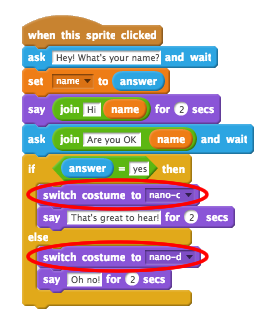
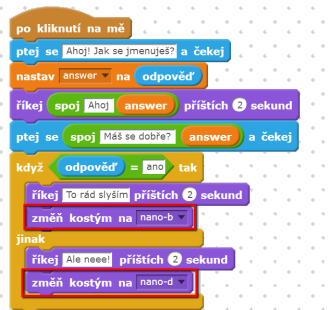
chatbot

diff --git a/cs-CZ/Term 1/ChatBot/ChatBot.md b/cs-CZ/Term 1/ChatBot/ChatBot.md
@@ -115,7 +115,7 @@ Robota můžeš naprogramovat tak, aby se rozhodoval co dále bude dělat na zá
 		ptej se [Ahoj! Jak se jmenuješ?] a čekej
 		nastav [name v] na (answer)
 		říkej <spoj [Ahoj ] (name)> příštích (2) sekund
-		ptej se <join [Máš se dobře? ] (name)> and wait
+		ptej se <join [Máš se dobře? ] (name)> a čekej
 		když ((answer)=[ano]) tak
 			říkej [To rád slyším!] příštích (2) sekund
 		end
@@ -132,7 +132,7 @@ Robota můžeš naprogramovat tak, aby se rozhodoval co dále bude dělat na zá
 		ptej se [Ahoj! Jak se jmenuješ?] a čekej
 		nastav [name v] na (answer)
 		říkej <spoj [Ahoj ] (name)> příštích (2) sekund
-		ask <join [Máš se dobře ] (name)> and wait
+		ptej se <join [Máš se dobře? ] (name)> a čekej
 		když ((answer)=[ano]) tak
 			říkej [To rád slyším!] příštích (2) sekund
 		jinak
@@ -142,7 +142,7 @@ Robota můžeš naprogramovat tak, aby se rozhodoval co dále bude dělat na zá
 
 + Když vyzkoušíš svůj kód, zjistíš, že robot odpovídá jak na `ano` tak na `ne`. Robot odpoví `To rád slyším!` na tvoji odpověd `ano`, ale odpověď `Ale neee!` když zadáš cokoliv jiného než `ano` (blok `jinak` {.blockcontrol} znamená 'jinak').
 
-	![screenshot](chatbot-jinak.png)
+	![screenshot](chatbot-else.png)
 
 + Do bloku `if` {.blockcontrol} nebo `jinak` {.blockcontrol} můžeš vložit cokoliv, nejen mluvení robota. Například můžeš změnit vzhled robota (kostým) aby odpovídal odpovědi.
 
@@ -181,9 +181,9 @@ Robota můžeš naprogramovat tak, aby měnil místo, kde se nachází.
 + Naprogramuj robota pomocí následujícího kódu:
 
 	```blocks
-		ask [Letím na měsíc, chceš jít se mnou?] and wait
-		if ((answer) = [ano]) then
-			switch backdrop to [moon v]
+		ptej se [Letím na měsíc, chceš jít se mnou?] a čekej
+		když ((answer) = [ano]) pak
+			změň pozadí na [moon v]
 		end
 	```
 
@@ -200,15 +200,27 @@ Robota můžeš naprogramovat tak, aby měnil místo, kde se nachází.
 + Pokud chceš, aby robot poskočil 4x, když odpovíš `ano`, přidej tento kód do bloku `if` {.blockcontrol}:
 
 	```scratch
-	repeat (4)
-		change y by (10)
-		wait (0.1) secs
-		change y by (-10)
-		wait (0.1) secs
+	opakuj (4)
+		změň y o (10)
+		čekej (0.1) sekund
+		změň y o (-10)
+		čekej (0.1) sekund
 	end
 	```
-
-	![screenshot](chatbot-loop.png)
+    takto 
+    
+    ```blocks
+		ptej se [Letím na měsíc, chceš jít se mnou?] a čekej
+		když ((answer) = [ano]) pak
+            změň pozadí na [moon v]
+                opakuj (4)
+                změň y o (10)
+                čekej (0.1) sekund
+                změň y o (-10)
+                čekej (0.1) sekund
+	        end
+		end
+	```	
 
 + Vyzkoušej svůj program znovu. Skáče robot nahoru a dolů při odpovědi `ano`?
 
